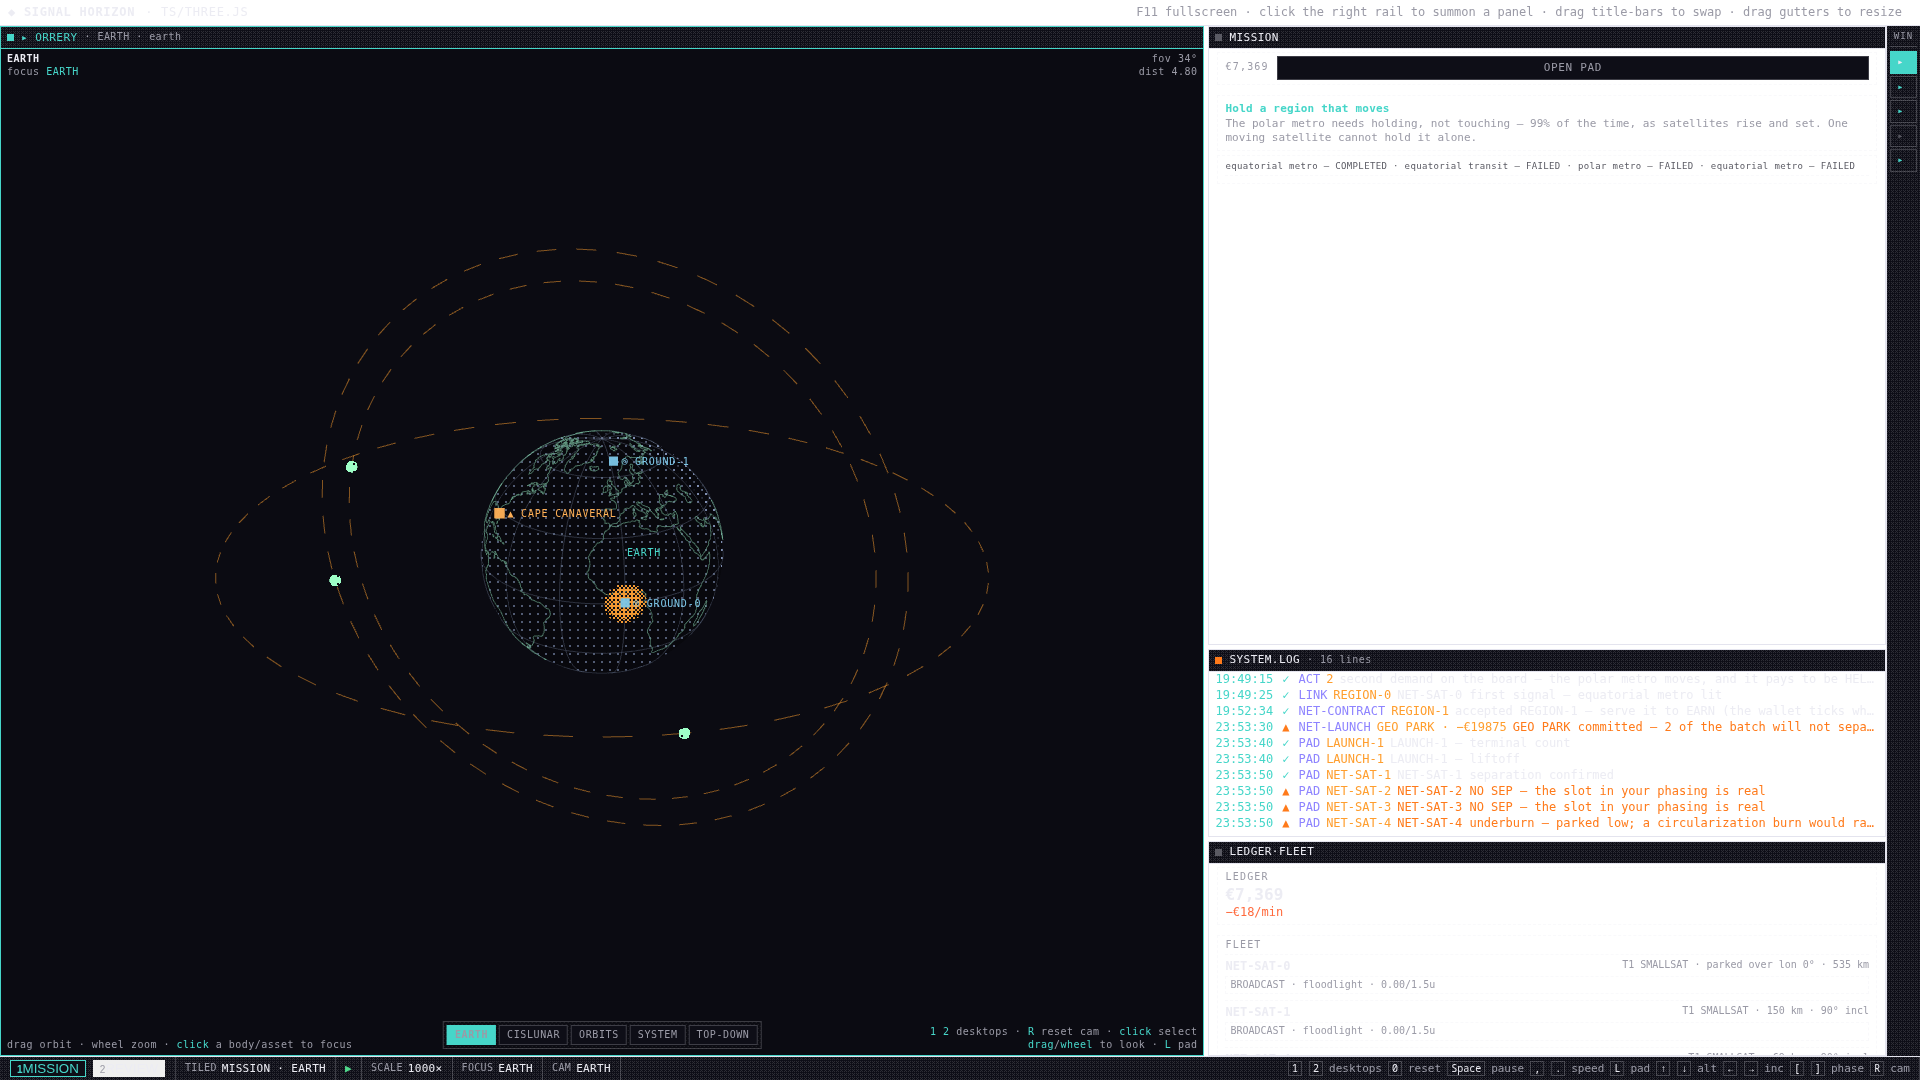
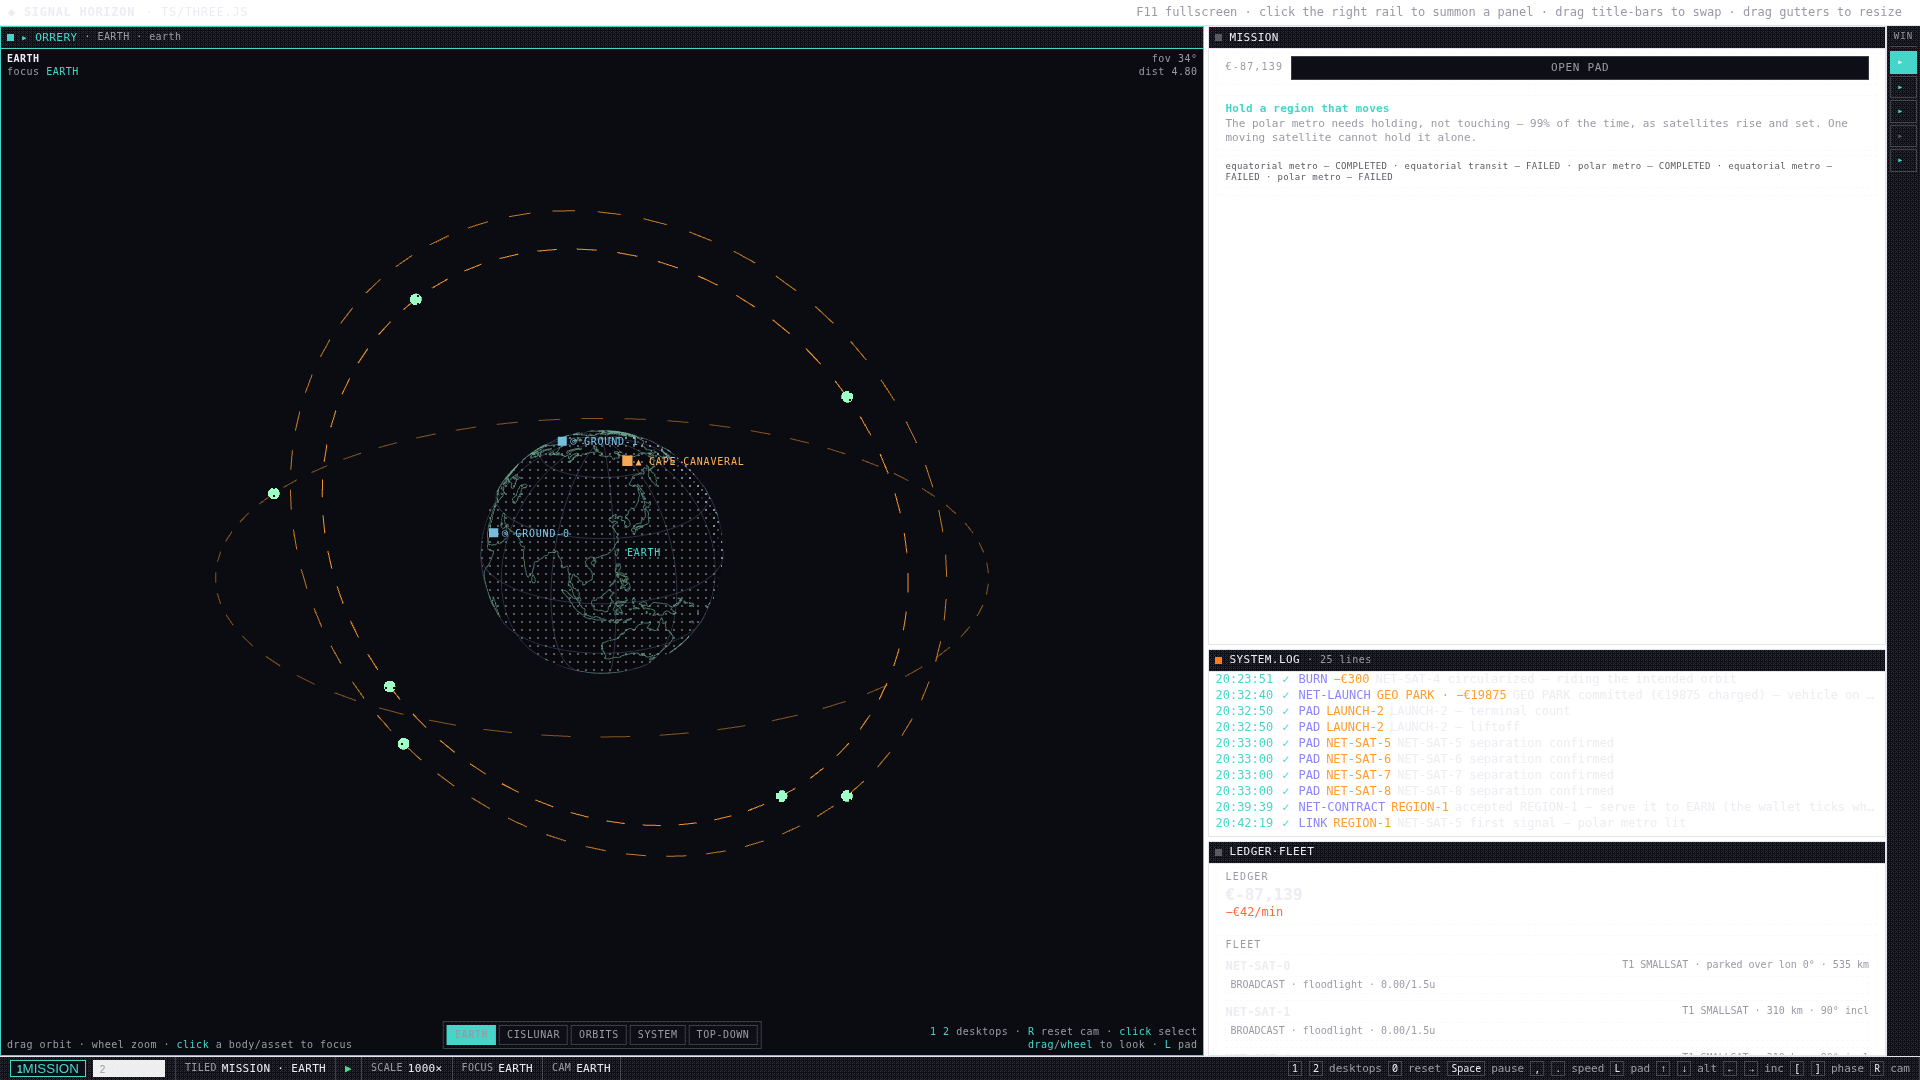
playtest: __regionProbe(id) — live serve/avail/binding per contract for scene asserts

diff --git a/src/main.ts b/src/main.ts
@@ -2911,6 +2911,23 @@ function ledgerFleetState(): LedgerFleetState {
   // per-member deploy pops currently live (age < 3 s).
   pops: [...netFreshDeployAge.entries()].map(([id, age]) => ({ id, age: Math.round(age * 10) / 10 })),
 });
+// Per-contract live solve (the playtest acts-2/3 scenes need the rolling availability +
+// binding constraint the same way the scenario does).
+(window as unknown as Record<string, unknown>).__regionProbe = (id: string) => {
+  if (!netMode) return null;
+  const c = netSession.contractById(id);
+  if (!c) return null;
+  const solve = netSession.lastSolveFor(id);
+  return {
+    id,
+    state: c.state,
+    servedFrac: c.lastServedFraction,
+    rollAvail: c.lastAvailability,
+    breachS: c.breachSecondsAccum,
+    binding: solve?.bindingConstraint ?? null,
+    path: solve?.path ?? null,
+  };
+};
 (window as unknown as Record<string, unknown>).__netDebug = () => {
   const c = netSession.contracts.find((x) => x.state === "active") ?? netSession.contracts[0];
   const solve = c ? netSession.lastSolveFor(c.id) : null;
